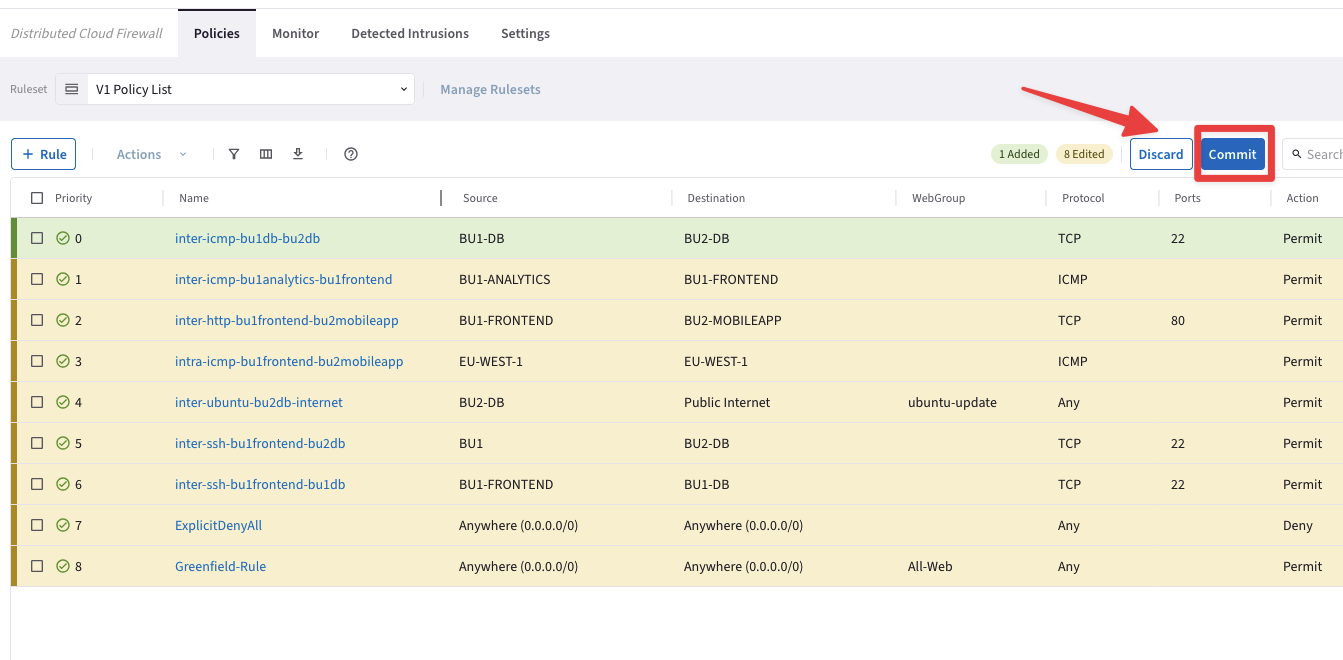
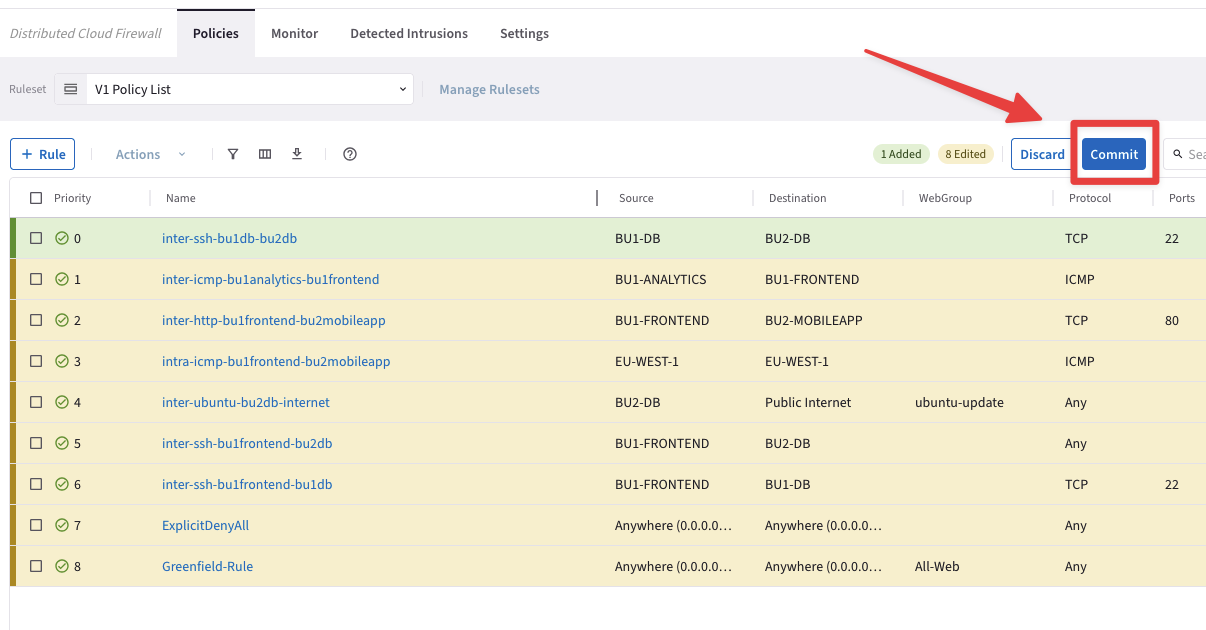
auto build from GitHub Actions

diff --git a/docs/ace-ops/docs/lab8.html b/docs/ace-ops/docs/lab8.html
@@ -766,7 +766,7 @@ document.write(`
 <figure class="align-center" id="id38">
 <img alt="../_images/lab8-greenfieldjoe0100.png" src="../_images/lab8-greenfieldjoe0100.png" />
 <figcaption>
-<p><span class="caption-number">Fig. 262 </span><span class="caption-text">inter-icmp-bu1db-bu2db</span><a class="headerlink" href="#id38" title="Link to this image">#</a></p>
+<p><span class="caption-number">Fig. 262 </span><span class="caption-text">inter-ssh-bu1db-bu2db</span><a class="headerlink" href="#id38" title="Link to this image">#</a></p>
 </figcaption>
 </figure>
 <p>Click on <strong>Commit</strong>.</p>

diff --git a/docs/ace-ops/_sources/docs/lab8.md b/docs/ace-ops/_sources/docs/lab8.md
@@ -447,7 +447,7 @@ Do not forget to click on **Save In Drafts**.
 ---
 align: center
 ---
-inter-icmp-bu1db-bu2db
+inter-ssh-bu1db-bu2db
 ```
 
 Click on **Commit**.
